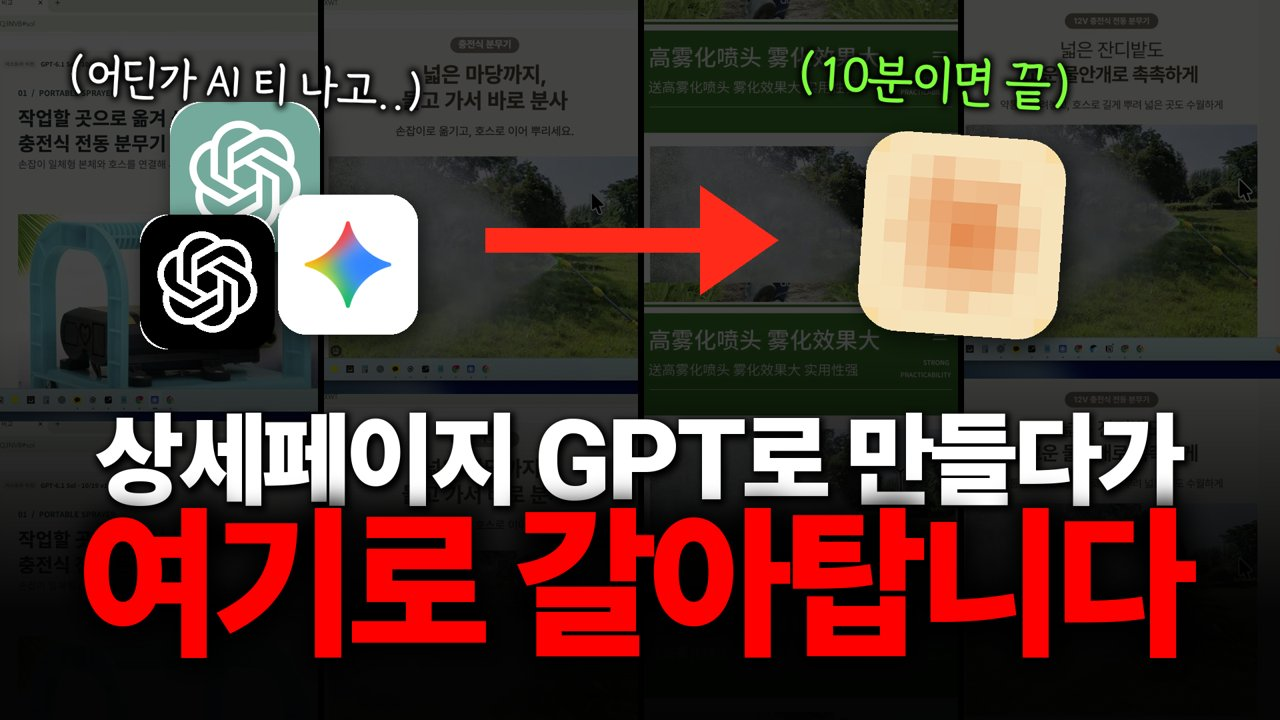
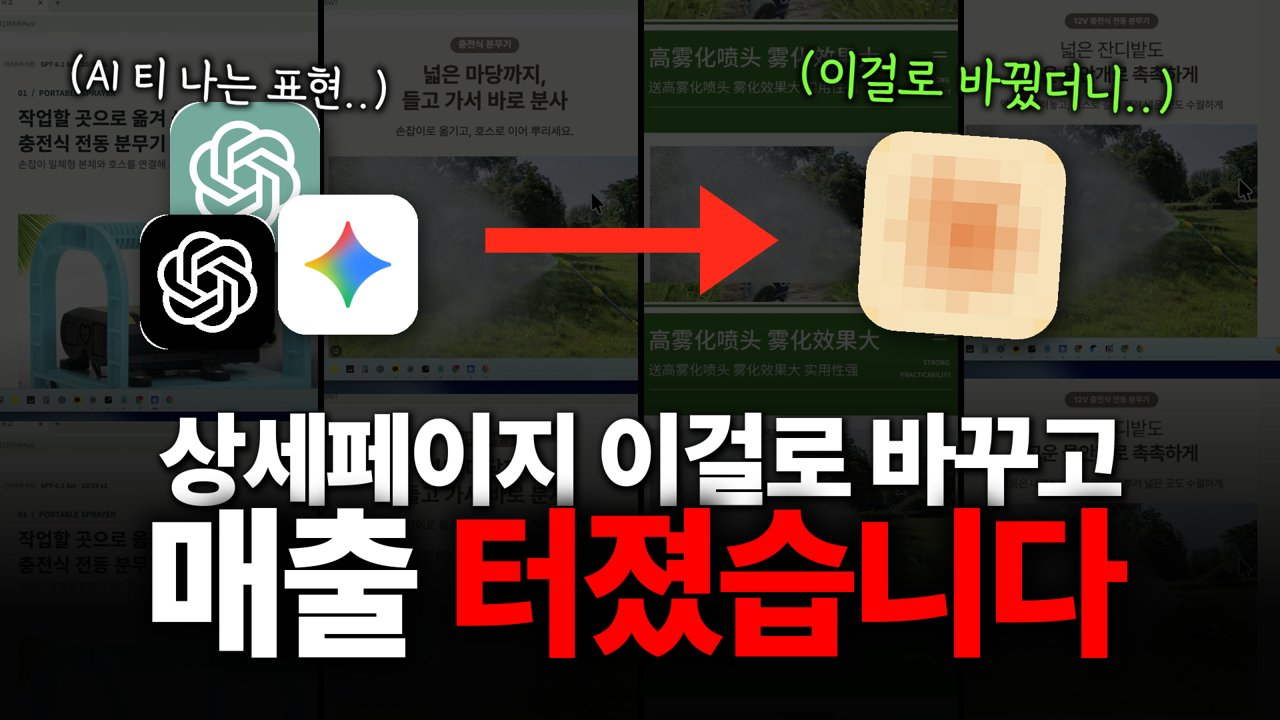
썸네일 v9 매출형 문구

Changed region(s): [[0.0625, 0.55, 0.9375, 0.9167], [0.625, 0.0611, 0.9375, 0.1833], [0.0625, 0.0611, 0.3438, 0.1528]]

diff --git a/index.html b/index.html
@@ -39,15 +39,15 @@ ol li{margin:4px 0}
 <body>
 <div class="wrap">
 <h1>31화 썸네일·제목 A/B/C 테스트</h1>
-<p class="sub">상세페이지 GPT vs 아스트라 vs 클로드 오퍼스 비교 · 썸네일 3종 × 제목 3개 · ★ = 추천 조합 · 이미지 누르면 크게</p>
+<p class="sub">썸네일 문구 v9(매출형, 11/6) · 상세페이지 GPT vs 아스트라 vs 클로드 오퍼스 비교 · 썸네일 3종 × 제목 3개 · ★ = 추천 조합 · 이미지 누르면 크게</p>
 
 <div class="cols">
 
 <div class="card">
 <a href="assets/a.jpg" target="_blank"><img src="assets/a.jpg" alt="A 썸네일: 상세페이지 GPT로 만들다가 여기로 갈아탑니다"></a>
 <div class="body">
-<span class="tag">A · 정답 숨김형</span>
-<div class="copy">상세페이지 GPT로 만들다가<br><em>여기로 갈아탑니다</em></div>
+<span class="tag">A · 매출 기대형 (정답 숨김)</span>
+<div class="copy">상세페이지 이걸로 바꾸고<br><em>매출 터졌습니다</em></div>
 <div><div class="label">제목 후보</div>
 <ol>
 <li class="best">상세페이지 아직 GPT로 만드세요? 같은 원본으로 3개 돌려보고 바로 갈아탔습니다</li>
@@ -61,8 +61,8 @@ ol li{margin:4px 0}
 <div class="card">
 <a href="assets/b.jpg" target="_blank"><img src="assets/b.jpg" alt="B 썸네일: 아직도 GPT로? 상세페이지 끝판왕 공개"></a>
 <div class="body">
-<span class="tag">B · 끝판왕 공개형 (클로드 공개)</span>
-<div class="copy">아직도 GPT로?<br><em>상세페이지 끝판왕 공개</em></div>
+<span class="tag">B · 매출 경고형 (클로드 공개)</span>
+<div class="copy">AI 티 나는 상세페이지<br><em>매출 박살납니다</em></div>
 <div><div class="label">제목 후보</div>
 <ol>
 <li class="best">상세페이지 아직도 GPT로 만드세요? 클로드 오퍼스가 압도적이었습니다</li>
@@ -76,8 +76,8 @@ ol li{margin:4px 0}
 <div class="card">
 <a href="assets/c.jpg" target="_blank"><img src="assets/c.jpg" alt="C 썸네일: 중국어 원본만 넣으면 상세페이지 10분 완성"></a>
 <div class="body">
-<span class="tag">C · 원본 → 결과형</span>
-<div class="copy">중국어 원본만 넣으면<br><em>상세페이지 10분 완성</em></div>
+<span class="tag">C · 매출 기대형 (원본 → 결과)</span>
+<div class="copy">원본만 넣었는데<br><em>매출 폭발 상세페이지</em></div>
 <div><div class="label">제목 후보</div>
 <ol>
 <li class="best">역대급입니다;; 중국어 원본만 넣었는데 상세페이지가 10분 만에 이렇게 나옵니다</li>
@@ -95,7 +95,7 @@ ol li{margin:4px 0}
 <ul>
 <li>배수 = 그 영상 조회수 ÷ 그 채널 최근 롱폼 30개 조회수 중앙값 (2026-11-06 수집, 후보 164개 중 선정)</li>
 <li>제목·문구의 숫자와 주장은 영상(v9)에서 한 말만: 중국어 원본만 넣었는데 0:01 · 아스트라 대박이라는 영상 많다 0:12 · 같은 이미지로 비교 4:11 · 오퍼스가 압도적(본인 판단) 5:23 · 1개 10분 정도 5:50 · 프롬프트 무료 6:09</li>
-<li>용팀장 금지 표현(무조건·누구나·쉽습니다·자동으로 다·하루 만에 등) 0개. 레퍼런스의 "1분·빡쳐서·자동완성"은 쓰지 않음</li>
+<li>썸네일 매출 문구(터졌습니다·박살납니다·폭발)는 사용자 지정. 영상에는 판매 결과가 없어 용팀장 팩 기준(근거 없는 매출 주장·공포 표현 금지)과 부딪힘 → 실제 매출 화면 확보 여부 용팀장 확인 필요</li>
 <li>글자: 용팀장 썸네일 규격(Freesentation 9 Black + 검정 큰 그림자, esamanru 노랑→주황 그라데이션, 강원교육모두체 손글씨). 아이콘은 실제 ChatGPT·Claude·Gemini 로고</li>
 </ul>
 </div>
